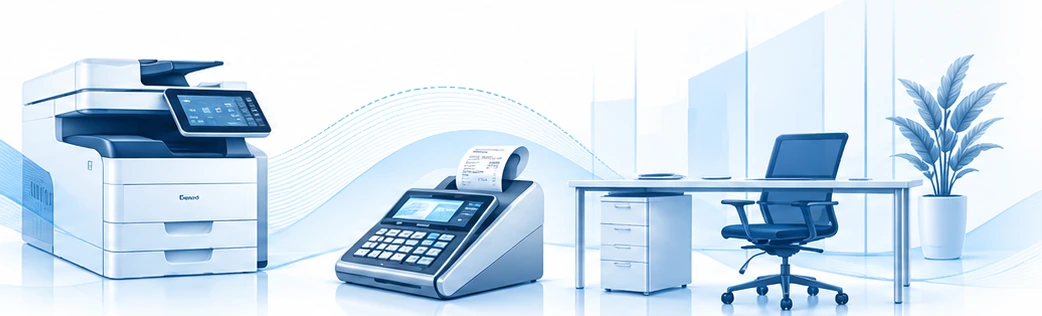
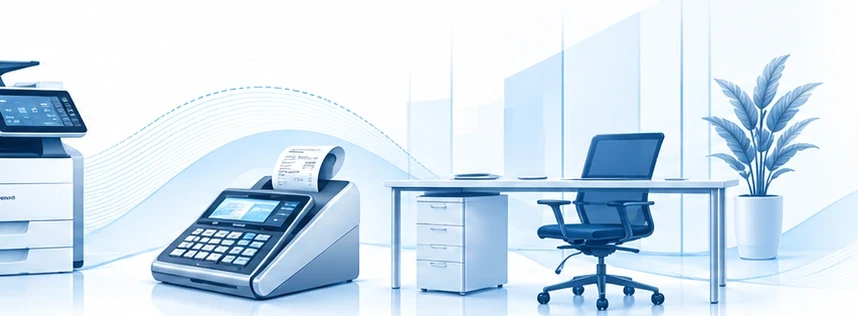
Add files via upload

diff --git a/assets/main.js b/assets/main.js
@@ -52,28 +52,32 @@ function initCompactHeader(){
 }
 initCompactHeader();
 
-/* DUEMME V62 — illustrazioni nella parte libera della testata (solo desktop). */
+/* DUEMME V64 — illustrazioni visibili su desktop e tablet, senza coprire i recapiti. */
 function initHeaderIllustrations(){
-  if(!document.querySelector('.du-top-v39 .du-header-upper') || document.getElementById('du-v62-header-art'))return;
+  const upper=document.querySelector('.du-top-v39 .du-header-upper');
+  if(!upper || document.getElementById('du-v64-header-art'))return;
   const style=document.createElement('style');
-  style.id='du-v62-header-art';
+  style.id='du-v64-header-art';
   style.textContent=`
-    @media (min-width:1120px){
-      .du-top-v39 .du-header-upper{position:relative;isolation:isolate}
+    .du-top-v39 .du-header-upper{position:relative;isolation:isolate}
+    .du-top-v39 .du-header-upper::after{content:none}
+    @media (min-width:720px){
       .du-top-v39 .du-header-upper::after{
         content:'';position:absolute;right:0;top:0;bottom:0;
-        width:min(39vw,680px);pointer-events:none;z-index:0;
-        background-image:url('assets/duemme-header-illustrazioni.webp');
+        width:clamp(300px,45vw,660px);pointer-events:none;z-index:0;
+        background-image:url('assets/duemme-header-illustrazioni.webp?v=64');
         background-repeat:no-repeat;background-position:right center;background-size:contain;
-        opacity:.98
+        opacity:.94;
+        -webkit-mask-image:linear-gradient(to right,transparent 0%,rgba(0,0,0,.7) 24%,#000 43%);
+        mask-image:linear-gradient(to right,transparent 0%,rgba(0,0,0,.7) 24%,#000 43%);
       }
       .du-top-v39 .du-header-inner{position:relative;z-index:1}
-      .du-top-v39 .du-header-contacts{max-width:590px}
+      .du-top-v39 .du-header-contacts{position:relative;z-index:2;max-width:580px}
     }
-    @media(max-width:1119px){.du-top-v39 .du-header-upper::after{content:none!important}}
-    @media(min-width:1120px) and (max-width:1280px){
-      .du-top-v39 .du-header-upper::after{width:32vw;opacity:.85}
+    @media (min-width:720px) and (max-width:1080px){
+      .du-top-v39 .du-header-upper::after{width:36vw;min-width:260px;opacity:.7}
     }
+    @media (max-width:719px){.du-top-v39 .du-header-upper::after{content:none!important}}
     .du-top-v39.du-header-compact .du-header-upper::after{opacity:0}
   `;
   document.head.appendChild(style);
